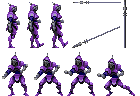
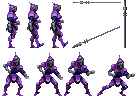
AI del guerriero completa!

Changed region(s): [[0.0, 0.5625, 0.9714, 1.0]]

diff --git a/Assets/Script/Test/PhysicsManager.cs b/Assets/Script/Test/PhysicsManager.cs
@@ -116,14 +116,25 @@ public class PhysicsManager : MonoBehaviour
 
 
     /// <summary>
+    /// Controlla se la visuale del nemico incontra un suo nemico ad una certa
+    /// distanza né troppo vicina né troppo lontana. Usata durante le fasi di guardia.
+    /// </summary>
+    /// <returns></returns>
+    public bool CheckEnemyNear()
+    {
+        return EvaluateRaycastH(0.0f, 0.48f, 1.0f, playerMask, Color.magenta) ||
+            EvaluateRaycastH(0.0f, -0.24f, 1.0f, playerMask, Color.magenta);
+    }
+
+    /// <summary>
     /// Controlla se la visuale del nemico incontra un suo nemico a distanza
     /// ravvicinata. Usata durante le fasi di guardia.
     /// </summary>
     /// <returns></returns>
     public bool CheckEnemyAround()
     {
-        return EvaluateRaycastH(0.0f, 0.48f, 1.0f, playerMask, Color.blue) ||
-            EvaluateRaycastH(0.0f, 0.0f, 1.0f, playerMask, Color.blue);
+        return EvaluateRaycastH(0.0f, 0.48f, 1.5f, playerMask, Color.blue) ||
+            EvaluateRaycastH(0.0f, 0.0f, 1.5f, playerMask, Color.blue);
     }
 
     /// <summary>

diff --git a/Assets/Script/Test/AnimationManager.cs b/Assets/Script/Test/AnimationManager.cs
@@ -53,6 +53,12 @@ public class AnimationManager : MonoBehaviour
             case StateManager.State.Falling:
                 s = 7;
                 break;
+            case StateManager.State.Alert:
+                s = 11;
+                break;
+            case StateManager.State.PrepareAttack:
+                s = 12;
+                break;
             default:
                 s = 0;
                 break;

diff --git a/Assets/Script/Test/StateManager.cs b/Assets/Script/Test/StateManager.cs
@@ -48,6 +48,14 @@ public class StateManager
         /// quando il personaggio cade dal bordo di una piattaforma.
         /// </summary>
         Falling,
+        /// <summary>
+        /// Si sta preparando per sferrare l'attacco
+        /// </summary>
+        PrepareAttack,
+        /// <summary>
+        /// Entità allerta, ma in questo caso indietreggia
+        /// </summary>
+        AlertBack,
     }
 }
 
